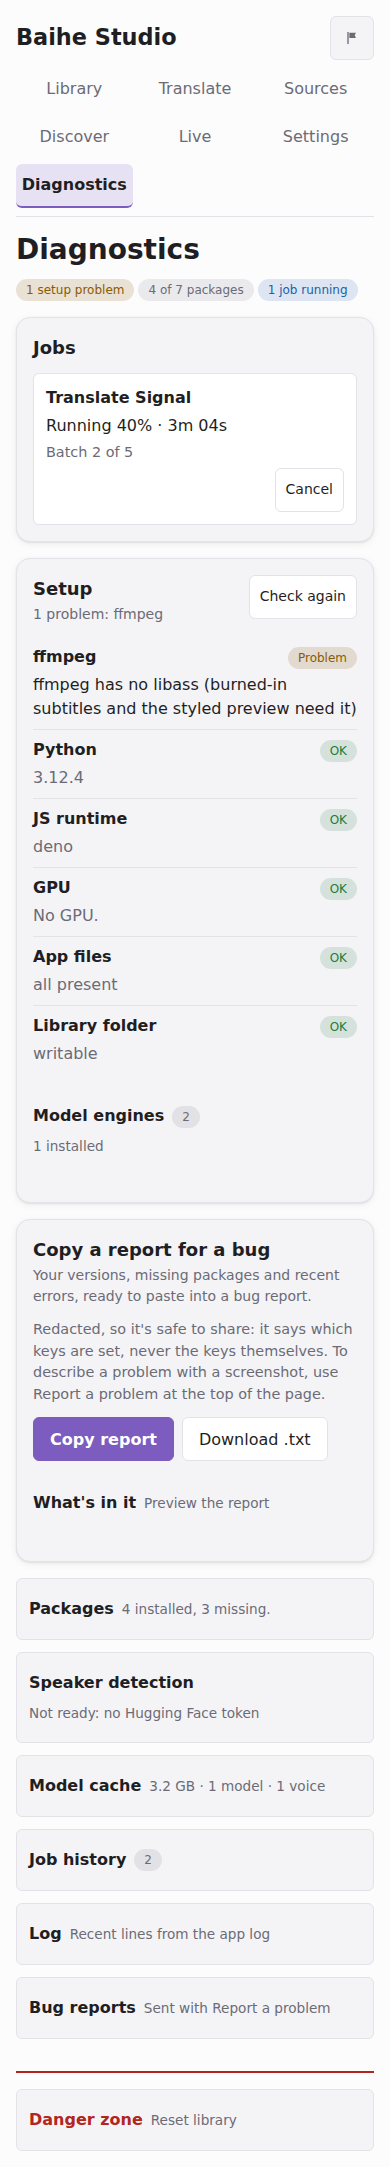
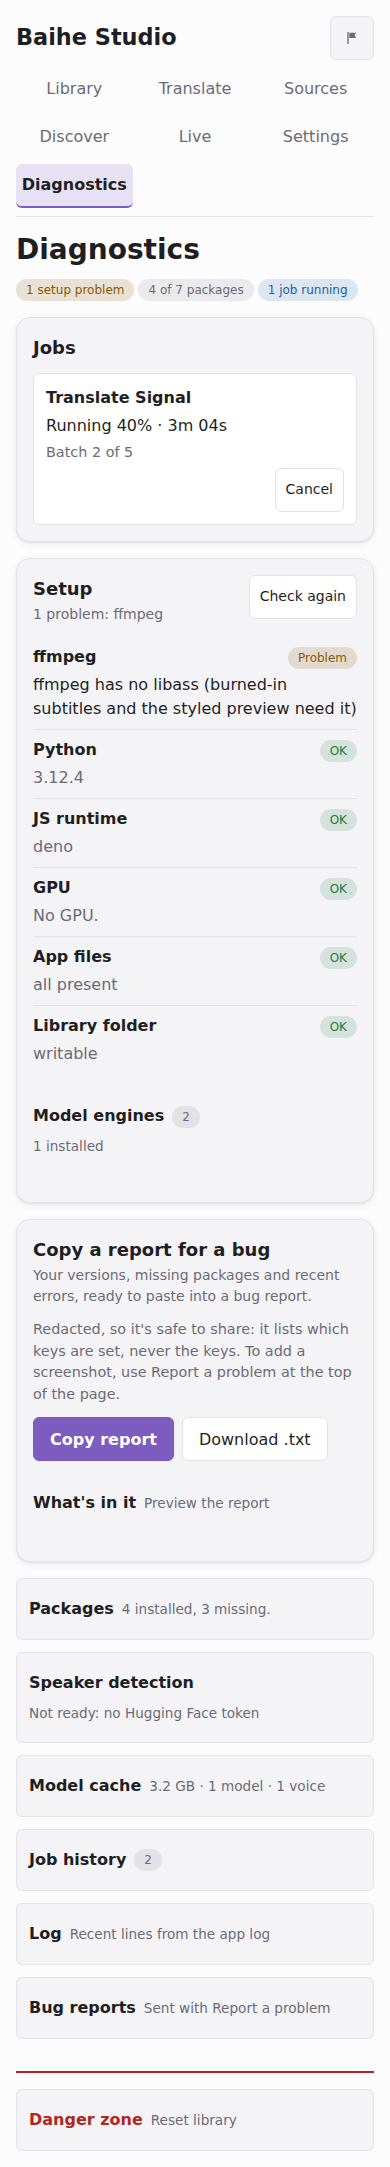
Diagnostics: review fixes (focus, toggle label, fallback selection, 360px table)
- "What's in it" re-mounts only for the no-clipboard fallback, so opening
  it by hand keeps focus on the summary.
- The plain-text toggle keeps one name ("Plain text"); aria-pressed carries
  the state.
- The fallback selects the report after the <pre> renders (an effect, not
  a rAF that could run before the commit).
- Finished-only jobs fold back in with the other folds.
- The PyTorch version table fits a 360px phone.
- Drop what this change made dead: variantVersionsText, SetupRow.core.

Claude-Session: https://claude.ai/code/session_017Wz1nC44vFRBaWhjdfFhYz

Changed region(s): [[0.0923, 0.5874, 0.8923, 0.6493]]

diff --git a/frontend/src/pages/diagnostics/SupportReportSection.tsx b/frontend/src/pages/diagnostics/SupportReportSection.tsx
@@ -21,6 +21,8 @@ export function SupportReportSection() {
   const [note, setNote] = useState('')
   const [plain, setPlain] = useState(false)
   const [previewOpen, setPreviewOpen] = useState(false)
+  // Bumped only by the no-clipboard fallback, to re-mount the fold open.
+  const [forceOpen, setForceOpen] = useState(0)
   const preRef = useRef<HTMLPreElement>(null)
   const touch = useMediaQuery('(pointer: coarse)')
 
@@ -53,20 +55,27 @@ export function SupportReportSection() {
   }
 
   // Without clipboard access: show the plain text, select it, say how to copy.
+  // The selection waits for the <pre> to render (the effect below).
+  const selectPending = useRef(false)
   const selectPlain = () => {
+    if (!previewOpen) setForceOpen((n) => n + 1)
     setPreviewOpen(true)
     setPlain(true)
-    requestAnimationFrame(() => {
-      const pre = preRef.current
-      const sel = window.getSelection()
-      if (!pre || !sel) return
-      pre.scrollIntoView({ block: 'nearest' })
-      const range = document.createRange()
-      range.selectNodeContents(pre)
-      sel.removeAllRanges()
-      sel.addRange(range)
-    })
+    selectPending.current = true
+    setSelectTick((n) => n + 1)
   }
+  const [selectTick, setSelectTick] = useState(0)
+  useEffect(() => {
+    const pre = preRef.current
+    const sel = window.getSelection()
+    if (!selectPending.current || !pre || !sel) return
+    selectPending.current = false
+    pre.scrollIntoView({ block: 'nearest' })
+    const range = document.createRange()
+    range.selectNodeContents(pre)
+    sel.removeAllRanges()
+    sel.addRange(range)
+  }, [selectTick, forceOpen, plain, report])
 
   const copy = async () => {
     setWorking('copy')
@@ -143,8 +152,8 @@ export function SupportReportSection() {
         </span>
       </div>
       <ErrorBanner error={error} onDismiss={() => setError(null)} />
-      {/* Keyed so a fallback that opens it re-mounts the fold open. */}
-      <Section key={previewOpen ? 'open' : 'closed'} title="What's in it" defaultOpen={previewOpen}
+      {/* Keyed so the fallback can re-mount it open; opening it by hand keeps focus. */}
+      <Section key={forceOpen} title="What's in it" defaultOpen={forceOpen > 0}
         summary="Preview the report" onToggle={togglePreview}>
         {report === null ? (
           <p className="muted">{working ? 'Building the report…' : 'Nothing built yet.'}</p>
@@ -152,7 +161,7 @@ export function SupportReportSection() {
           <div className="diag-stack">
             <div className="actions">
               <button type="button" className={buttonClass('ghost', 'sm')} aria-pressed={plain} onClick={() => setPlain((p) => !p)}>
-                {plain ? 'Show as a list' : 'Show plain text'}
+                Plain text
               </button>
             </div>
             {plain ? (
@@ -174,7 +183,7 @@ function ReportList({ text }: { text: string }) {
     <dl className="report-list" aria-label="Support report" data-testid="report-list">
       {parseSupportReport(text).map((r, i) => (
         <div key={i} className="report-row">
-          <dt>{r.label}</dt>
+          <dt>{r.label || '—'}</dt>
           <dd>
             {r.value && <span>{r.value}</span>}
             {r.items.length > 0 && (

diff --git a/frontend/src/pages/Diagnostics.tsx b/frontend/src/pages/Diagnostics.tsx
@@ -112,6 +112,8 @@ export default function DiagnosticsPage() {
 
   const setupProblems = setup ? setupRows(setup, overview?.gpu ?? null).filter((r) => r.problem).length : null
   const deps = overview ? splitDependencies(overview.dependencies) : null
+  // Running or failed jobs get a card at the top; finished ones a fold with the others.
+  const jobsUrgent = !!jobs && jobs.some((j) => isActive(j.status) || j.status === 'error')
   const badges = headerBadges(setupProblems, deps?.installed.length ?? null,
     overview ? Object.keys(overview.dependencies).length : null, jobs ? running : null, adminBusy)
 
@@ -125,7 +127,7 @@ export default function DiagnosticsPage() {
       </header>
       <ErrorBanner error={error} onDismiss={() => setError(null)} />
 
-      {jobs && jobs.length > 0 && <JobsBlock jobs={jobs} now={now} onCancel={(id) => void cancel(id)} />}
+      {jobs && jobsUrgent && <JobsBlock jobs={jobs} now={now} onCancel={(id) => void cancel(id)} />}
 
       {setup ? (
         <SetupSection
@@ -145,6 +147,7 @@ export default function DiagnosticsPage() {
       <SupportReportSection />
 
       <div className="diag-folds">
+        {jobs && jobs.length > 0 && !jobsUrgent && <JobsBlock jobs={jobs} now={now} onCancel={(id) => void cancel(id)} />}
         {overview && (
           <PackagesSection
             overview={overview}
@@ -169,7 +172,7 @@ export default function DiagnosticsPage() {
   )
 }
 
-/** Jobs: always shown while one is running or failed; otherwise a collapsed Section. */
+/** Jobs: a card while one is running or failed; otherwise a collapsed Section. */
 function JobsBlock({ jobs, now, onCancel }: { jobs: JobRecord[]; now: number; onCancel: (id: string) => void }) {
   const phone = useMediaQuery('(max-width: 640px)')
   const list = phone ? <JobCards jobs={jobs} now={now} onCancel={onCancel} /> : <JobTable jobs={jobs} now={now} onCancel={onCancel} />

diff --git a/frontend/src/pages/diagnostics/diagnosticsAdmin.ts b/frontend/src/pages/diagnostics/diagnosticsAdmin.ts
@@ -79,10 +79,8 @@ export function adminErrorText(err: unknown, action: AdminAction): string {
 
 // ---- Setup ----
 
-// `core`: a Q01 core requirement (Python, ffmpeg with libass, JS runtime),
-// always shown at the top of the page rather than inside the Setup fold.
 // `value` is the text without the label ("3.11.9", "ffmpeg not found"); `text` is the one-line form.
-export type SetupRow = { key: string; label: string; value: string; text: string; problem: boolean; core?: boolean }
+export type SetupRow = { key: string; label: string; value: string; text: string; problem: boolean }
 
 /** The ffmpeg row's problem text: missing, or built without libass. */
 function ffmpegProblem(c: DiagnosticsSetupChecks): string {
@@ -102,7 +100,6 @@ export function setupRows(c: DiagnosticsSetupChecks, gpu: GpuStatus | null): Set
     `${c.ffmpeg.version ?? 'found'}${c.ffmpeg.libass ? ' (with libass)' : ''}`, ffmpegProblem(c))
   add('js', 'JS runtime', c.js_runtime.found, c.js_runtime.name ?? 'found',
     'no JS runtime (some video sites lose formats)')
-  for (const r of rows) r.core = true
   const gpuBlind = c.cuda.torch_installed && c.cuda.cuda_available === false
   if (gpu || gpuBlind) add('gpu', 'GPU', !gpuBlind, gpu ? describeGpu(gpu) : '', "PyTorch can't see the GPU")
   const missing = c.files.missing_top_level.length + c.files.missing_tabs.length

diff --git a/frontend/src/pages/diagnostics/diagnostics.css b/frontend/src/pages/diagnostics/diagnostics.css
@@ -97,10 +97,13 @@
 
 /* GPU PyTorch: installed beside recommended; the index URL wraps on phones. */
 .gpu-torch code { overflow-wrap: anywhere; }
-.torch-table { width: 100%; table-layout: fixed; border-collapse: collapse; font-size: var(--text-sm); font-variant-numeric: tabular-nums; }
+.table-scroll .torch-table, .torch-table { min-width: 0; width: 100%; table-layout: fixed; border-collapse: collapse; font-size: var(--text-sm); font-variant-numeric: tabular-nums; }
 .torch-table th, .torch-table td { text-align: left; padding: var(--space-1) var(--space-2) var(--space-1) 0; border-bottom: 1px solid var(--border); overflow-wrap: anywhere; }
-.torch-table thead th { color: var(--muted); font-weight: 500; }
+.torch-table thead th { color: var(--muted); font-weight: 500; font-size: var(--text-xs); }
 .torch-table tbody th { font-weight: 600; }
+.torch-table th { overflow-wrap: normal; }
+.torch-table tr > :last-child { padding-right: 0; }
+.torch-table thead th:nth-child(1), .torch-table thead th:nth-child(3) { width: 36%; }
 
 /* Install by task: a group heading, then task rows like package rows. */
 .task-group { margin: var(--space-2) 0 0; font-size: var(--font-sm); font-weight: 600; text-transform: uppercase; letter-spacing: 0.04em; color: var(--muted); }

diff --git a/frontend/e2e/diagnostics-admin.spec.ts b/frontend/e2e/diagnostics-admin.spec.ts
@@ -334,9 +334,13 @@ test('support report: one press builds and copies it; the preview reads as rows'
   await expect(list.locator('.report-row', { hasText: 'Library writable' }).locator('dd')).toHaveText('Yes')
   await expect(list.locator('.report-row', { hasText: 'Model/engine versions' })).toContainText('faster-whisper 1.1.0')
   await expect(list.locator('.report-items.mono')).toHaveText('12:01 ERROR boom')
-  await card.getByRole('button', { name: 'Show plain text' }).click()
+  const summaryEl = card.locator('summary', { hasText: "What's in it" })
+  await expect(summaryEl).toBeFocused() // opening it keeps focus (no re-mount)
+  const plain = card.getByRole('button', { name: 'Plain text' })
+  await expect(plain).toHaveAttribute('aria-pressed', 'false')
+  await plain.click()
   await expect(card.locator('pre')).toHaveText(REPORT)
-  await expect(card.getByRole('button', { name: 'Show as a list' })).toHaveAttribute('aria-pressed', 'true')
+  await expect(plain).toHaveAttribute('aria-pressed', 'true')
 
   const download = page.waitForEvent('download')
   await card.getByRole('button', { name: 'Download .txt' }).click()

diff --git a/frontend/src/pages/diagnostics/diagnosticsAdmin.test.ts b/frontend/src/pages/diagnostics/diagnosticsAdmin.test.ts
@@ -58,12 +58,11 @@ describe('setup rows', () => {
     expect(setupSummary(rows.slice(1, 2))).toBe('1 problem: ffmpeg')
   })
 
-  it('checks ffmpeg for libass and marks the core rows', () => {
+  it('checks ffmpeg for libass', () => {
     const withLibass = setupRows(checks({ ffmpeg: { found: true, version: '6.1', libass: true } }), gpu)
     expect(withLibass[1]).toMatchObject({ text: 'ffmpeg: 6.1 (with libass)', problem: false })
     const noLibass = setupRows(checks({ ffmpeg: { found: true, version: '6.1', libass: false } }), gpu)
     expect(noLibass[1]).toMatchObject({ problem: true, text: expect.stringContaining('no libass') })
-    expect(noLibass.filter((r) => r.core).map((r) => r.key)).toEqual(['python', 'ffmpeg', 'js'])
     // Unknown (an older API or a failed version check) is not a problem.
     expect(setupRows(checks({ ffmpeg: { found: true, version: '6.1', libass: null } }), gpu)[1].problem).toBe(false)
   })

diff --git a/frontend/src/pages/diagnostics/gpuTorch.test.ts b/frontend/src/pages/diagnostics/gpuTorch.test.ts
@@ -2,7 +2,7 @@ import { describe, expect, it } from 'vitest'
 
 import type { DiagnosticsGpuTorchStatus } from '../../types/diagnostics'
 import {
-  driverText, packageVersionText, setupBlockedReason, setupConfirmLabel, stateBadge, stateIsProblem, stateText, variantVersionsText,
+  driverText, packageVersionText, setupBlockedReason, setupConfirmLabel, stateBadge, stateIsProblem, stateText,
   verifyText,
 } from './gpuTorch'
 
@@ -36,7 +36,6 @@ describe('gpuTorch', () => {
     expect(stateText(status({ state: 'cpu_on_gpu' }))).toContain('CPU only')
     expect(stateIsProblem(status({ state: 'mismatched' }))).toBe(true)
     expect(stateIsProblem(status({ state: 'recommended' }))).toBe(false)
-    expect(variantVersionsText(cu128)).toBe('torch 2.11.0+cu128 · torchvision 0.26.0+cu128 · torchaudio 2.11.0+cu128')
   })
 
   it('blocks setup without a GPU, with an old driver or an unsupported Python', () => {

diff --git a/frontend/src/pages/diagnostics/gpuTorch.ts b/frontend/src/pages/diagnostics/gpuTorch.ts
@@ -38,10 +38,6 @@ export function stateText(s: DiagnosticsGpuTorchStatus): string {
 export const stateIsProblem = (s: DiagnosticsGpuTorchStatus) =>
   s.state === 'mismatched' || s.state === 'cpu_on_gpu' || s.nvidia.status === 'too_old'
 
-/** "torch 2.11.0+cu128 · torchvision 0.26.0+cu128 · torchaudio 2.11.0+cu128". */
-export const variantVersionsText = (v: DiagnosticsTorchVariant) =>
-  ['torch', 'torchvision', 'torchaudio'].map((n) => `${n} ${v.versions[n] ?? '?'}`).join(' · ')
-
 /** Why the setup can't run for this variant, or null. */
 export function setupBlockedReason(s: DiagnosticsGpuTorchStatus, v: DiagnosticsTorchVariant): string | null {
   if (!s.python_supported) return 'This Python version has no PyTorch wheels for the recommended set.'

diff --git a/frontend/e2e/diagnostics-admin.mobile.spec.ts b/frontend/e2e/diagnostics-admin.mobile.spec.ts
@@ -50,7 +50,7 @@ test('Diagnostics on a phone: job cards, 44px targets, no sideways scroll', asyn
   // Support report: a card with Copy report; the preview fold shows it, plain text one tap away.
   await page.locator('summary', { hasText: "What's in it" }).click()
   await expect(page.getByTestId('report-list')).toContainText('Baihe report')
-  await page.getByRole('button', { name: 'Show plain text' }).click()
+  await page.getByRole('button', { name: 'Plain text' }).click()
   await expect(page.getByLabel('Support report')).toContainText('Baihe report')
 
   // The job blocks installs; drop it so the Install button works.

diff --git a/frontend/e2e/diagnostics-shots.spec.ts b/frontend/e2e/diagnostics-shots.spec.ts
@@ -155,7 +155,7 @@ async function mockPage(page: Page) {
   }] } }))
 }
 
-/** Opens every closed fold (nested ones too), then builds the report if the page has a Build button. */
+/** Opens every closed fold (nested ones too); the before-shots also press the old Build report button. */
 async function openAll(page: Page) {
   // Outer folds first: an inner summary is only clickable once its parent is open.
   for (let i = 0; i < 40; i++) {
